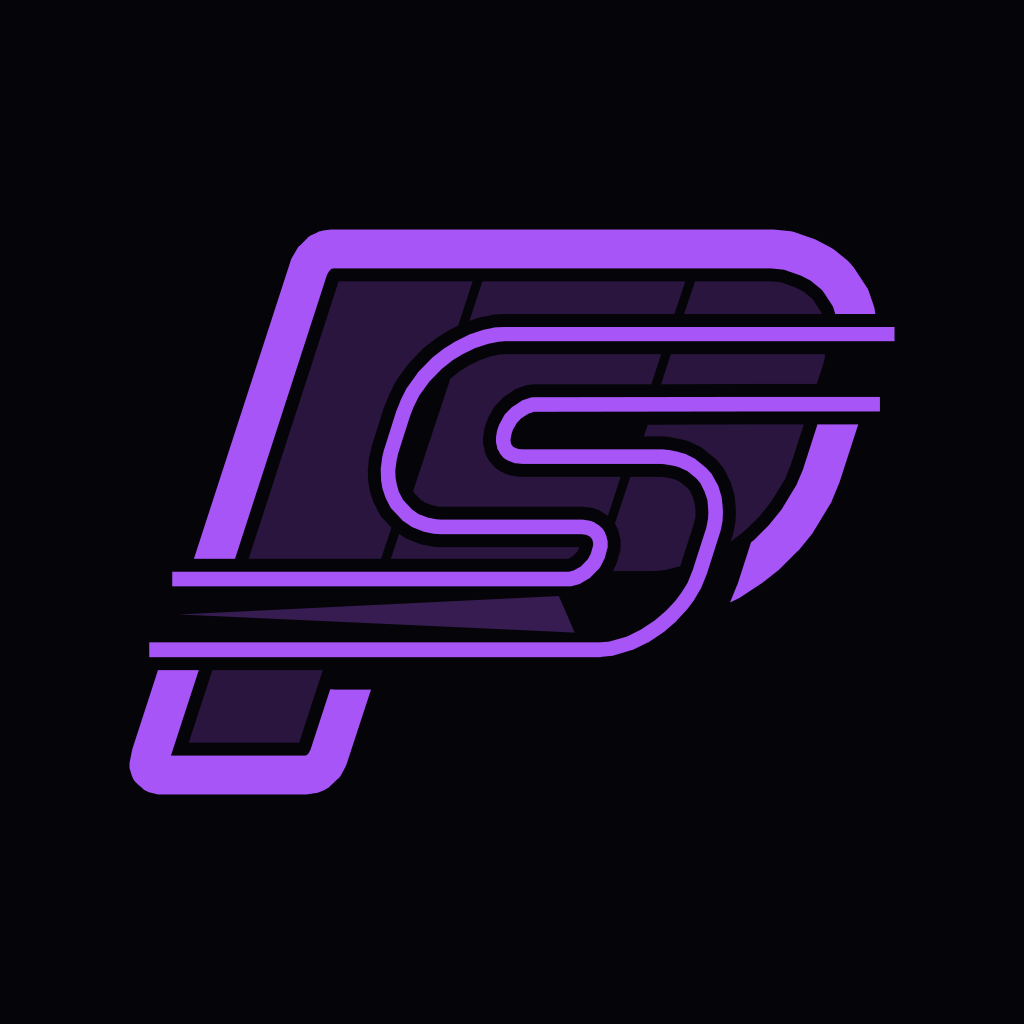
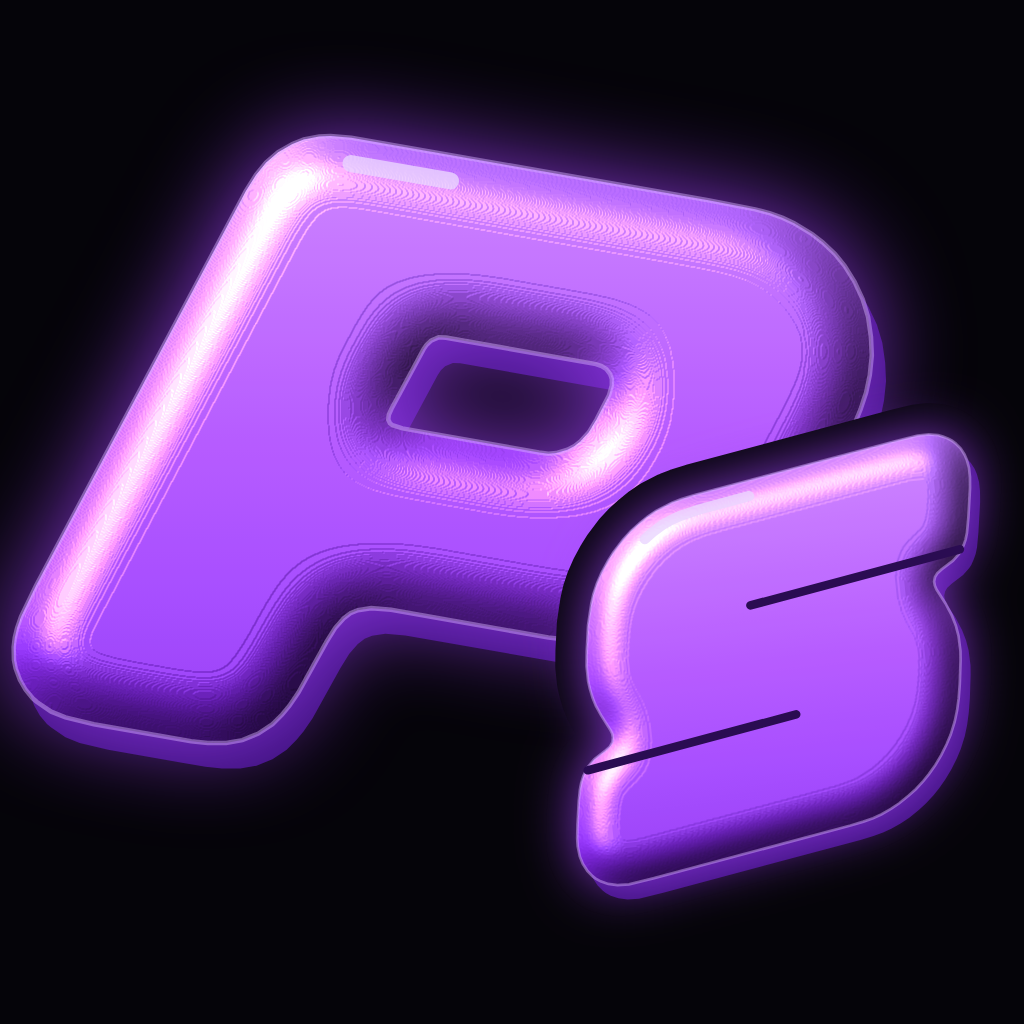
Título chicle PURSEC en páginas interiores y emblema chicle en infografías y kit de marca
Claude-Session: https://claude.ai/code/session_01WNETbiAF9xbLcpPEm8HxFY

diff --git a/packages/infographics/src/emblem.js b/packages/infographics/src/emblem.js
@@ -1,7 +1,7 @@
-// Emblema PS de PURSEC (versión definitiva, 3 oct 2026). Generado; no editar a mano.
+// Emblema PS de PURSEC, estilo chicle (5 oct 2026; sustituye al de estilo carreras del 3 oct). Generado; no editar a mano.
 // Geometría plana (sin máscaras ni ids), apta para incrustar en cualquier SVG.
-export const EMBLEM_VIEWBOX = "-3.7 -13.2 236.3 236.3";
-export const EMBLEM_INNER = `<path d="M73.7,105.9 L73.4,105.3 L71.9,102.4 L71.7,102.0 L71.5,101.5 L70.7,99.1 L70.5,98.2 L70.1,95.8 L70.0,95.3 L70.0,94.8 L69.9,92.0 L70.0,91.2 L70.3,88.0 L70.5,87.3 L71.1,84.8 L71.2,84.3 L74.9,72.6 L75.1,72.2 L76.3,69.2 L76.5,68.7 L78.3,65.1 L78.5,64.7 L78.8,64.2 L82.1,59.6 L82.4,59.3 L82.7,58.9 L86.8,54.6 L87.4,54.1 L91.0,51.3 L91.6,50.9 L94.8,48.9 L95.3,48.6 L97.8,47.4 L102.3,33.7 L60.9,33.7 L33.1,119.4 L74.0,119.4 L77.2,109.8 L74.4,106.8 L74.0,106.3 L73.7,105.9ZM56.0,153.8 L21.9,153.8 L14.6,176.2 L48.7,176.2 L56.0,153.8Z" fill="#A855F7" fill-opacity="0.22" fill-rule="evenodd"/><path d="M104.5,44.8 L105.3,44.7 L108.6,44.0 L109.5,43.9 L111.8,43.8 L112.1,43.8 L164.6,43.8 L168.0,33.7 L105.3,33.7 L101.3,45.9 L104.5,44.8ZM114.3,93.7 L113.8,93.6 L112.1,93.0 L111.6,92.7 L111.1,92.5 L110.4,92.1 L109.8,91.7 L109.3,91.3 L108.8,90.8 L107.9,89.7 L107.4,89.2 L107.0,88.5 L106.5,87.6 L106.3,87.1 L106.1,86.6 L106.0,86.0 L105.7,84.6 L105.5,84.0 L105.5,83.3 L105.5,82.3 L105.5,81.8 L105.6,81.3 L105.9,79.4 L106.0,78.8 L106.2,78.3 L106.8,76.6 L107.0,76.1 L107.2,75.6 L108.6,73.1 L108.9,72.6 L109.2,72.2 L109.6,71.8 L111.4,69.9 L111.9,69.4 L112.5,69.0 L115.1,67.3 L115.5,67.0 L116.0,66.8 L116.5,66.6 L118.9,65.8 L119.6,65.7 L120.2,65.6 L120.9,65.5 L157.5,65.5 L160.5,56.2 L112.3,56.2 L110.6,56.3 L108.1,56.8 L104.6,58.0 L101.1,59.7 L98.5,61.3 L95.5,63.7 L95.4,63.8 L83.9,98.5 L84.1,98.9 L86.2,101.1 L87.5,102.0 L89.6,102.8 L91.7,103.3 L92.7,103.3 L136.0,103.3 L136.8,103.4 L138.7,103.6 L139.2,103.7 L139.7,103.8 L140.2,104.0 L141.3,104.4 L141.8,104.7 L142.4,105.0 L143.4,105.7 L144.0,106.1 L144.1,106.1 L148.0,94.1 L117.9,94.1 L117.3,94.1 L115.3,93.9 L114.8,93.8 L114.3,93.7ZM135.1,116.3 L135.2,115.8 L92.5,115.8 L92.1,115.8 L90.4,115.7 L89.6,115.6 L86.6,115.0 L86.1,114.9 L85.7,114.7 L82.4,113.4 L81.9,113.2 L81.4,113.0 L81.0,112.7 L79.6,111.7 L77.0,119.4 L131.6,119.4 L132.0,119.3 L133.2,118.6 L134.7,117.1 L135.1,116.3Z" fill="#A855F7" fill-opacity="0.22" fill-rule="evenodd"/><path d="M197.5,34.0 L194.2,33.7 L171.0,33.7 L167.6,43.8 L210.1,43.8 L209.9,43.2 L207.4,39.3 L207.2,39.1 L204.5,36.9 L202.0,35.6 L197.5,34.0ZM188.7,65.4 L188.7,65.4 L208.6,65.4 L210.1,60.8 L210.9,58.1 L211.2,56.2 L163.5,56.2 L160.5,65.5 L188.7,65.4ZM200.5,90.5 L204.6,77.9 L188.7,77.9 L156.4,78.0 L155.2,81.6 L160.8,81.6 L161.4,81.6 L163.2,81.8 L163.7,81.9 L166.7,82.5 L167.2,82.6 L168.7,83.0 L169.3,83.2 L169.8,83.5 L172.6,84.8 L173.2,85.2 L173.7,85.6 L176.9,88.2 L177.3,88.5 L177.7,88.9 L179.2,90.7 L179.6,91.2 L180.0,91.8 L181.5,94.8 L181.8,95.3 L182.0,95.8 L182.9,98.8 L183.1,99.4 L183.2,100.0 L183.5,102.6 L183.5,102.8 L183.6,104.5 L183.6,105.3 L183.5,107.6 L183.4,108.5 L182.8,111.5 L182.6,112.2 L182.0,114.1 L182.6,113.7 L186.5,110.6 L190.9,106.3 L194.4,101.9 L198.8,94.8 L200.5,90.5ZM171.1,105.0 L171.1,103.9 L170.8,102.0 L170.2,100.1 L169.3,98.3 L168.6,97.5 L166.4,95.7 L164.8,94.9 L164.1,94.7 L161.6,94.2 L160.5,94.1 L151.0,94.1 L146.2,108.6 L146.3,108.6 L146.6,109.2 L147.1,110.2 L147.3,110.8 L147.4,111.3 L147.8,112.7 L147.9,113.2 L148.0,113.7 L148.0,114.3 L148.0,115.6 L148.0,116.1 L147.9,116.7 L147.8,117.3 L146.9,120.3 L146.7,120.9 L146.5,121.4 L145.6,123.2 L158.3,123.2 L161.5,122.9 L166.4,121.7 L166.5,121.4 L170.6,108.7 L171.1,106.5 L171.1,105.0Z" fill="#A855F7" fill-opacity="0.22" fill-rule="evenodd"/><path d="M131.4,136.6 L128.9,130.9 L11.5,136.6 L133.8,142.2 L131.4,136.6Z" fill="#A855F7" fill-opacity="0.3"/><path d="M218.8,28.0 L218.4,27.6 L218.0,27.2 L213.8,23.8 L213.3,23.5 L212.8,23.2 L208.8,21.1 L208.4,20.9 L208.0,20.7 L201.7,18.5 L201.0,18.3 L200.3,18.2 L195.3,17.7 L194.7,17.7 L59.2,17.7 L58.5,17.7 L56.1,18.0 L55.4,18.2 L54.8,18.3 L54.3,18.6 L52.8,19.3 L52.3,19.5 L51.9,19.8 L51.4,20.1 L51.1,20.5 L49.0,22.6 L48.6,22.9 L48.3,23.3 L48.0,23.8 L46.6,26.2 L46.3,26.7 L46.1,27.3 L16.2,119.4 L28.9,119.4 L57.3,31.7 L58.0,30.5 L58.7,29.8 L59.6,29.7 L194.4,29.7 L198.4,30.1 L203.6,31.9 L206.7,33.5 L210.0,36.2 L210.6,36.9 L213.6,41.5 L214.3,43.8 L226.7,43.8 L226.4,42.0 L226.2,41.3 L224.7,36.9 L224.5,36.4 L224.3,35.9 L224.0,35.5 L220.4,30.0 L220.0,29.4 L218.8,28.0ZM191.8,126.8 L192.2,126.5 L196.9,122.8 L197.4,122.3 L202.5,117.2 L203.0,116.8 L207.3,111.5 L207.7,110.8 L212.8,102.4 L213.1,102.0 L213.2,101.6 L215.4,96.3 L215.6,95.8 L221.4,77.9 L208.8,77.9 L204.3,91.9 L202.3,96.6 L197.7,104.2 L193.8,109.0 L189.2,113.6 L188.3,114.3 L184.1,127.3 L183.7,128.2 L182.0,132.4 L181.8,132.9 L184.7,131.5 L185.3,131.1 L191.8,126.8ZM-3.6,182.0 L-3.7,182.6 L-3.7,183.2 L-3.7,183.8 L-3.6,184.4 L-3.4,185.0 L-3.0,186.3 L-2.8,186.8 L-2.6,187.3 L-2.3,187.8 L-2.0,188.2 L-1.6,188.6 L-1.2,189.0 L0.3,190.3 L0.7,190.7 L1.2,191.0 L1.7,191.2 L2.2,191.5 L2.7,191.6 L4.3,192.0 L5.1,192.2 L5.8,192.2 L50.7,192.2 L51.1,192.2 L51.6,192.1 L53.6,191.8 L54.3,191.7 L54.9,191.5 L56.4,190.9 L56.9,190.6 L57.4,190.3 L57.9,190.0 L58.3,189.6 L60.5,187.5 L61.0,187.1 L61.4,186.6 L61.7,186.1 L63.0,183.7 L63.2,183.2 L63.4,182.7 L70.9,159.8 L59.6,159.8 L58.4,159.7 L58.3,159.7 L52.2,178.4 L51.6,179.5 L51.0,180.1 L50.3,180.2 L9.1,180.2 L17.7,153.8 L5.1,153.8 L-2.7,177.8 L-2.9,178.5 L-3.6,182.0Z" fill="#A855F7" fill-rule="evenodd"/><path d="M112.0,47.8 L109.7,47.9 L109.3,47.9 L106.0,48.6 L105.8,48.6 L101.6,50.0 L101.3,50.1 L97.1,52.2 L96.9,52.3 L93.7,54.3 L93.5,54.4 L89.9,57.2 L89.7,57.4 L85.5,61.7 L85.4,61.8 L85.3,62.0 L82.0,66.6 L81.9,66.7 L81.8,66.9 L80.0,70.5 L80.0,70.6 L78.8,73.6 L78.7,73.8 L75.0,85.5 L74.9,85.7 L74.3,88.3 L74.3,88.5 L73.9,91.6 L73.9,91.9 L74.0,94.7 L74.0,94.9 L74.0,95.1 L74.4,97.5 L74.5,97.9 L75.3,100.3 L75.4,100.4 L75.4,100.6 L76.9,103.5 L77.0,103.7 L77.2,103.9 L77.3,104.0 L80.5,107.4 L80.6,107.6 L80.8,107.7 L83.3,109.4 L83.4,109.5 L83.6,109.6 L83.8,109.7 L87.1,111.0 L87.3,111.0 L87.4,111.1 L90.4,111.7 L90.7,111.7 L92.3,111.8 L92.5,111.8 L135.9,111.8 L137.4,112.0 L138.0,112.3 L138.6,112.6 L139.0,113.1 L139.3,113.6 L139.5,114.5 L139.5,115.3 L138.8,117.8 L137.9,119.5 L135.7,121.8 L133.5,123.0 L132.1,123.4 L9.5,123.4 L9.5,127.9 L132.4,127.9 L132.6,127.9 L132.8,127.9 L133.0,127.8 L135.0,127.3 L135.2,127.2 L135.3,127.2 L135.5,127.1 L138.2,125.5 L138.4,125.4 L138.5,125.3 L138.7,125.1 L141.4,122.4 L141.5,122.2 L141.7,122.0 L141.8,121.8 L142.9,119.6 L143.0,119.4 L143.1,119.2 L143.9,116.2 L144.0,116.0 L144.0,115.8 L144.0,115.6 L144.0,114.3 L144.0,114.1 L144.0,113.9 L143.9,113.7 L143.6,112.3 L143.5,112.1 L143.4,111.9 L143.0,110.9 L142.8,110.7 L142.7,110.5 L142.6,110.3 L141.7,109.4 L141.5,109.2 L141.2,109.0 L140.2,108.4 L140.0,108.2 L139.8,108.1 L138.7,107.7 L138.6,107.7 L138.4,107.6 L138.2,107.6 L136.3,107.3 L136.0,107.3 L92.6,107.3 L91.1,107.2 L88.5,106.7 L85.6,105.6 L83.6,104.2 L80.8,101.2 L79.5,98.7 L78.9,96.6 L78.5,94.5 L78.4,92.0 L78.8,89.1 L79.3,86.8 L83.0,75.2 L84.1,72.4 L85.8,69.0 L88.9,64.7 L92.8,60.7 L96.2,58.0 L99.2,56.2 L103.1,54.3 L107.1,53.0 L110.1,52.4 L112.2,52.2 L232.6,52.2 L232.6,47.8 L112.1,47.8 L112.0,47.8ZM142.0,149.7 L145.0,149.4 L145.2,149.4 L145.4,149.4 L151.4,147.6 L151.6,147.6 L151.8,147.5 L156.3,145.3 L156.6,145.2 L161.2,142.1 L161.4,142.0 L161.5,141.9 L165.3,138.6 L165.4,138.4 L168.2,135.4 L168.4,135.2 L170.6,132.3 L170.7,132.1 L172.6,128.9 L172.8,128.6 L174.5,124.4 L174.6,124.2 L178.8,111.0 L178.9,110.7 L179.5,107.7 L179.5,107.4 L179.6,105.1 L179.6,104.8 L179.5,103.1 L179.5,103.0 L179.2,100.4 L179.2,100.2 L179.1,100.0 L178.2,97.0 L178.1,96.8 L178.0,96.6 L176.4,93.7 L176.3,93.5 L176.2,93.3 L174.7,91.6 L174.5,91.4 L174.4,91.3 L171.2,88.7 L171.0,88.5 L170.8,88.4 L168.0,87.0 L167.8,87.0 L167.6,86.9 L166.1,86.5 L166.0,86.4 L163.0,85.8 L162.8,85.8 L161.0,85.6 L160.8,85.6 L118.0,85.6 L116.4,85.5 L115.2,85.0 L114.9,84.9 L114.4,84.3 L114.2,83.9 L114.0,83.1 L114.0,82.5 L114.3,80.9 L114.7,79.6 L115.9,77.5 L117.3,76.0 L119.5,74.6 L121.2,74.0 L188.7,73.9 L228.1,73.9 L228.1,69.4 L188.7,69.4 L188.7,69.4 L120.9,69.5 L120.6,69.5 L120.4,69.6 L120.2,69.6 L117.8,70.4 L117.6,70.5 L117.4,70.6 L117.3,70.7 L114.7,72.4 L114.5,72.5 L114.3,72.7 L112.5,74.5 L112.4,74.7 L112.2,74.8 L112.1,75.0 L110.7,77.6 L110.6,77.8 L110.5,77.9 L109.9,79.6 L109.9,79.8 L109.8,80.0 L109.5,81.9 L109.5,82.1 L109.5,82.3 L109.5,83.3 L109.5,83.5 L109.6,83.8 L109.9,85.2 L109.9,85.4 L110.0,85.6 L110.1,85.7 L110.6,86.6 L110.7,86.9 L110.9,87.1 L111.8,88.2 L112.0,88.3 L112.2,88.5 L112.4,88.6 L113.1,89.0 L113.3,89.1 L113.5,89.2 L115.1,89.8 L115.3,89.9 L115.5,89.9 L115.7,89.9 L117.7,90.1 L117.9,90.1 L160.7,90.1 L162.2,90.3 L165.0,90.8 L166.2,91.2 L168.6,92.3 L171.4,94.6 L172.6,96.0 L173.9,98.6 L174.8,101.2 L175.0,103.5 L175.1,105.0 L175.0,107.0 L174.5,109.7 L170.3,122.8 L168.7,126.8 L166.9,129.7 L164.9,132.4 L162.2,135.3 L158.6,138.4 L154.2,141.3 L150.0,143.4 L144.4,145.0 L141.7,145.2 L2.4,145.2 L2.4,149.8 L141.8,149.8 L142.0,149.7Z" fill="#A855F7"/>`;
+export const EMBLEM_VIEWBOX = "-58 -79 380 380";
+export const EMBLEM_INNER = `<g><path d="M252.4 23.0 L249.0 17.5 L245.5 13.2 L241.2 9.2 L237.5 6.3 L231.2 2.5 L227.2 0.6 L222.8 -1.0 L217.5 -2.4 L201.0 -5.6 L75.5 -27.6 L68.2 -28.2 L64.2 -28.0 L58.8 -27.0 L54.8 -25.4 L49.8 -22.5 L45.5 -18.8 L42.0 -14.5 L38.4 -8.8 L-35.4 130.0 L-40.6 140.8 L-42.0 144.8 L-42.8 148.2 L-43.2 151.5 L-43.1 156.0 L-42.5 159.0 L-41.0 163.0 L-39.0 166.5 L-36.5 169.5 L-35.0 170.8 L-30.0 174.2 L-25.0 176.2 L-15.0 178.6 L19.2 184.6 L25.0 185.2 L31.5 185.2 L37.2 184.2 L42.8 181.9 L47.8 178.6 L51.2 175.2 L53.7 172.2 L56.9 167.5 L66.7 149.8 L69.8 144.8 L72.8 141.4 L75.2 139.6 L77.8 138.5 L82.5 137.8 L89.5 138.4 L144.8 148.1 L156.8 149.5 L165.0 149.5 L171.8 148.8 L177.0 147.9 L182.8 146.4 L187.8 144.8 L196.0 141.4 L205.0 136.6 L213.2 130.9 L221.0 124.2 L226.1 118.8 L230.8 112.8 L235.9 104.8 L244.4 89.0 L251.7 74.8 L254.5 68.0 L256.5 62.0 L257.8 55.8 L258.5 49.0 L258.2 42.5 L257.2 35.5 L255.3 29.2Z M88.5 71.5 L88.7 69.8 L89.6 67.8 L100.9 46.8 L102.0 45.2 L103.5 43.8 L106.2 42.6 L108.8 42.7 L161.5 52.0 L163.5 52.7 L165.2 53.8 L166.5 55.5 L167.1 57.2 L167.1 59.5 L166.1 63.0 L161.7 71.5 L159.0 76.0 L156.0 79.2 L154.0 80.8 L151.5 82.1 L147.5 83.3 L144.8 83.5 L141.5 83.1 L93.5 74.6 L90.0 73.5 L89.1 72.8Z" transform="translate(5 9)" fill="#3A0F78" fill-rule="evenodd"/><path d="M252.4 23.0 L249.0 17.5 L245.5 13.2 L241.2 9.2 L237.5 6.3 L231.2 2.5 L227.2 0.6 L222.8 -1.0 L217.5 -2.4 L201.0 -5.6 L75.5 -27.6 L68.2 -28.2 L64.2 -28.0 L58.8 -27.0 L54.8 -25.4 L49.8 -22.5 L45.5 -18.8 L42.0 -14.5 L38.4 -8.8 L-35.4 130.0 L-40.6 140.8 L-42.0 144.8 L-42.8 148.2 L-43.2 151.5 L-43.1 156.0 L-42.5 159.0 L-41.0 163.0 L-39.0 166.5 L-36.5 169.5 L-35.0 170.8 L-30.0 174.2 L-25.0 176.2 L-15.0 178.6 L19.2 184.6 L25.0 185.2 L31.5 185.2 L37.2 184.2 L42.8 181.9 L47.8 178.6 L51.2 175.2 L53.7 172.2 L56.9 167.5 L66.7 149.8 L69.8 144.8 L72.8 141.4 L75.2 139.6 L77.8 138.5 L82.5 137.8 L89.5 138.4 L144.8 148.1 L156.8 149.5 L165.0 149.5 L171.8 148.8 L177.0 147.9 L182.8 146.4 L187.8 144.8 L196.0 141.4 L205.0 136.6 L213.2 130.9 L221.0 124.2 L226.1 118.8 L230.8 112.8 L235.9 104.8 L244.4 89.0 L251.7 74.8 L254.5 68.0 L256.5 62.0 L257.8 55.8 L258.5 49.0 L258.2 42.5 L257.2 35.5 L255.3 29.2Z M88.5 71.5 L88.7 69.8 L89.6 67.8 L100.9 46.8 L102.0 45.2 L103.5 43.8 L106.2 42.6 L108.8 42.7 L161.5 52.0 L163.5 52.7 L165.2 53.8 L166.5 55.5 L167.1 57.2 L167.1 59.5 L166.1 63.0 L161.7 71.5 L159.0 76.0 L156.0 79.2 L154.0 80.8 L151.5 82.1 L147.5 83.3 L144.8 83.5 L141.5 83.1 L93.5 74.6 L90.0 73.5 L89.1 72.8Z" fill="#A855F7" fill-rule="evenodd"/><path d="M110.4 -12.4 L75.4 -18.5" fill="none" stroke="#E4CCFF" stroke-opacity=".75" stroke-width="7" stroke-linecap="round"/></g><g transform="translate(224 156) rotate(-6) scale(0.6) translate(-723.625 -113.875)"><path d="M843.2 -0.8 L841.0 -2.9 L839.0 -4.3 L836.0 -5.9 L833.2 -7.0 L827.8 -8.0 L821.2 -8.0 L808.8 -6.3 L687.5 12.9 L679.2 14.6 L674.0 16.0 L664.2 19.8 L659.0 22.6 L653.8 26.0 L648.2 30.1 L643.2 34.5 L636.7 41.5 L633.3 45.8 L628.7 52.5 L625.3 58.5 L622.6 64.5 L620.8 69.8 L617.6 82.2 L615.2 97.5 L614.2 106.2 L614.2 115.0 L614.7 119.2 L615.8 125.0 L617.2 129.8 L619.6 135.5 L624.1 144.5 L625.0 147.0 L625.2 149.2 L624.6 152.0 L622.8 154.4 L620.2 156.3 L613.0 160.8 L608.6 165.0 L605.6 169.8 L603.9 173.8 L602.8 177.5 L601.4 184.2 L599.2 198.0 L598.2 205.8 L598.0 210.5 L598.6 216.5 L599.9 221.0 L602.2 225.5 L604.8 228.8 L606.5 230.4 L609.2 232.3 L613.5 234.3 L618.8 235.6 L625.5 235.8 L640.0 233.8 L758.2 215.1 L766.0 213.6 L771.8 212.2 L776.8 210.5 L782.8 207.9 L788.0 205.1 L794.0 201.2 L798.5 197.9 L803.5 193.5 L807.2 189.8 L811.4 185.0 L815.5 179.5 L819.3 173.5 L822.2 168.2 L825.3 161.0 L827.4 154.5 L829.1 147.5 L830.6 139.2 L832.5 125.5 L833.0 120.0 L832.8 111.2 L831.9 105.2 L830.2 99.0 L827.2 91.5 L822.9 83.0 L822.1 80.5 L821.9 78.0 L822.7 75.5 L824.2 73.5 L827.0 71.4 L834.2 67.0 L838.1 63.5 L839.5 61.8 L841.4 58.5 L842.8 55.5 L844.0 51.8 L845.8 42.8 L848.6 25.5 L849.2 19.2 L849.2 14.0 L848.4 9.0 L847.4 5.8 L845.6 2.2Z" fill="#050409" stroke="#050409" stroke-width="36.66666666666667" stroke-linejoin="round"/><path d="M843.2 -0.8 L841.0 -2.9 L839.0 -4.3 L836.0 -5.9 L833.2 -7.0 L827.8 -8.0 L821.2 -8.0 L808.8 -6.3 L687.5 12.9 L679.2 14.6 L674.0 16.0 L664.2 19.8 L659.0 22.6 L653.8 26.0 L648.2 30.1 L643.2 34.5 L636.7 41.5 L633.3 45.8 L628.7 52.5 L625.3 58.5 L622.6 64.5 L620.8 69.8 L617.6 82.2 L615.2 97.5 L614.2 106.2 L614.2 115.0 L614.7 119.2 L615.8 125.0 L617.2 129.8 L619.6 135.5 L624.1 144.5 L625.0 147.0 L625.2 149.2 L624.6 152.0 L622.8 154.4 L620.2 156.3 L613.0 160.8 L608.6 165.0 L605.6 169.8 L603.9 173.8 L602.8 177.5 L601.4 184.2 L599.2 198.0 L598.2 205.8 L598.0 210.5 L598.6 216.5 L599.9 221.0 L602.2 225.5 L604.8 228.8 L606.5 230.4 L609.2 232.3 L613.5 234.3 L618.8 235.6 L625.5 235.8 L640.0 233.8 L758.2 215.1 L766.0 213.6 L771.8 212.2 L776.8 210.5 L782.8 207.9 L788.0 205.1 L794.0 201.2 L798.5 197.9 L803.5 193.5 L807.2 189.8 L811.4 185.0 L815.5 179.5 L819.3 173.5 L822.2 168.2 L825.3 161.0 L827.4 154.5 L829.1 147.5 L830.6 139.2 L832.5 125.5 L833.0 120.0 L832.8 111.2 L831.9 105.2 L830.2 99.0 L827.2 91.5 L822.9 83.0 L822.1 80.5 L821.9 78.0 L822.7 75.5 L824.2 73.5 L827.0 71.4 L834.2 67.0 L838.1 63.5 L839.5 61.8 L841.4 58.5 L842.8 55.5 L844.0 51.8 L845.8 42.8 L848.6 25.5 L849.2 19.2 L849.2 14.0 L848.4 9.0 L847.4 5.8 L845.6 2.2Z" transform="translate(5 9)" fill="#3A0F78" fill-rule="evenodd"/><path d="M843.2 -0.8 L841.0 -2.9 L839.0 -4.3 L836.0 -5.9 L833.2 -7.0 L827.8 -8.0 L821.2 -8.0 L808.8 -6.3 L687.5 12.9 L679.2 14.6 L674.0 16.0 L664.2 19.8 L659.0 22.6 L653.8 26.0 L648.2 30.1 L643.2 34.5 L636.7 41.5 L633.3 45.8 L628.7 52.5 L625.3 58.5 L622.6 64.5 L620.8 69.8 L617.6 82.2 L615.2 97.5 L614.2 106.2 L614.2 115.0 L614.7 119.2 L615.8 125.0 L617.2 129.8 L619.6 135.5 L624.1 144.5 L625.0 147.0 L625.2 149.2 L624.6 152.0 L622.8 154.4 L620.2 156.3 L613.0 160.8 L608.6 165.0 L605.6 169.8 L603.9 173.8 L602.8 177.5 L601.4 184.2 L599.2 198.0 L598.2 205.8 L598.0 210.5 L598.6 216.5 L599.9 221.0 L602.2 225.5 L604.8 228.8 L606.5 230.4 L609.2 232.3 L613.5 234.3 L618.8 235.6 L625.5 235.8 L640.0 233.8 L758.2 215.1 L766.0 213.6 L771.8 212.2 L776.8 210.5 L782.8 207.9 L788.0 205.1 L794.0 201.2 L798.5 197.9 L803.5 193.5 L807.2 189.8 L811.4 185.0 L815.5 179.5 L819.3 173.5 L822.2 168.2 L825.3 161.0 L827.4 154.5 L829.1 147.5 L830.6 139.2 L832.5 125.5 L833.0 120.0 L832.8 111.2 L831.9 105.2 L830.2 99.0 L827.2 91.5 L822.9 83.0 L822.1 80.5 L821.9 78.0 L822.7 75.5 L824.2 73.5 L827.0 71.4 L834.2 67.0 L838.1 63.5 L839.5 61.8 L841.4 58.5 L842.8 55.5 L844.0 51.8 L845.8 42.8 L848.6 25.5 L849.2 19.2 L849.2 14.0 L848.4 9.0 L847.4 5.8 L845.6 2.2Z" fill="#A855F7" fill-rule="evenodd"/><path d="M713.4 80.7 L838.9 60.8" fill="none" stroke="#2A0C52" stroke-width="8" stroke-linecap="round"/><path d="M733.4 147.0 L608.5 166.8" fill="none" stroke="#2A0C52" stroke-width="8" stroke-linecap="round"/><path d="M719.4 16.9 L688.6 21.8 L678.1 24.2 L672.6 26.0 L666.9 28.5 L661.1 31.9 L655.9 35.6" fill="none" stroke="#E4CCFF" stroke-opacity=".75" stroke-width="7" stroke-linecap="round"/></g>`;
 export function emblem(x, y, size) {
   return `<svg x="${x}" y="${y}" width="${size}" height="${size}" viewBox="${EMBLEM_VIEWBOX}">${EMBLEM_INNER}</svg>`;
 }

diff --git a/public/css/pursec.css b/public/css/pursec.css
@@ -154,21 +154,35 @@ a:hover { color: #E4D3FF; }
   filter: blur(10px);
 }
 
-/* ---------- logo en hueco + barra de sectores (páginas interiores) ---------- */
-.mark { display: flex; flex-direction: column; gap: 14px; width: min(460px, 78vw); margin-bottom: 20px; }
-.mark.center { align-items: center; margin-left: auto; margin-right: auto; }
-.mark img { width: 100%; filter: drop-shadow(0 0 3px rgba(168,85,247,.75)) drop-shadow(0 0 14px rgba(168,85,247,.35)); animation: mark-in 1.2s var(--ease) both; }
-.mark .bars { display: flex; gap: 6px; width: 62%; }
-.mark .sec { flex: 1; height: 6px; border-radius: 3px; background: rgba(211,198,242,.08); overflow: hidden; }
-.mark .sec i { display: block; height: 100%; border-radius: 2px; background: var(--green); transform-origin: left; transform: scaleX(0); animation: mark-fill .7s linear forwards; }
-.mark .sec:nth-child(1) i { animation-delay: .6s; }
-.mark .sec:nth-child(2) i { animation-delay: 1.3s; }
-.mark .sec:nth-child(3) i { animation: mark-fill .7s linear 2s forwards, mark-purple .01s linear 2.7s forwards; }
-@keyframes mark-in { from { opacity: 0; transform: translateY(10px); } to { opacity: 1; transform: none; } }
+/* ---------- título chicle PURSEC (mismo que la portada) + barra de sectores, en páginas interiores ---------- */
+.mark { width: min(760px, 90vw); margin-bottom: 28px; }
+.mark.center { margin-left: auto; margin-right: auto; }
+.gumtitle { position: relative; width: 100%; aspect-ratio: 1352 / 360; }
+.gumtitle .lt { position: absolute; display: block; will-change: transform;
+  animation: gt-in 1s cubic-bezier(.3, 1.45, .45, 1) calc(var(--i) * .07s) both, gum var(--dur) cubic-bezier(.45, 0, .55, 1) calc(var(--ph) + 1.2s) infinite; }
+.gumtitle .jelly { display: block; width: 100%; height: 100%; transform-origin: 50% 62%; will-change: transform; }
+.gumtitle img { width: 100%; height: 100%; max-width: none; user-select: none; -webkit-user-drag: none; }
+.gumtitle .lt:hover .jelly { animation: boing .8s cubic-bezier(.28, 1.4, .5, 1); }
+.gumtitle .sec { position: absolute; display: block; border-radius: 999px; background: rgba(211,198,242,.08); overflow: hidden; }
+.gumtitle .sec i { display: block; height: 100%; border-radius: 999px; background: var(--green); transform-origin: left; transform: scaleX(0); animation: mark-fill .7s linear forwards; }
+.gumtitle .s1 i { animation-delay: .7s; }
+.gumtitle .s2 i { animation-delay: 1.4s; }
+.gumtitle .s3 i { background: var(--purple); animation-delay: 2.1s; }
+.gumtitle .s3 { overflow: visible; }
+.gumtitle .s3 i { box-shadow: 0 0 12px rgba(168,85,247,.85); }
+@keyframes gt-in { from { opacity: 0; transform: translate3d(0, 12%, 0) scale(.86); } to { opacity: 1; transform: none; } }
+@keyframes gum {
+  0%, 100% { transform: translate3d(0, 0, 0) rotate(0deg) scale(1, 1); }
+  33% { transform: translate3d(0, -1.6%, 0) rotate(var(--r)) scale(1.015, .99); }
+  66% { transform: translate3d(0, 1.2%, 0) rotate(calc(var(--r) * -.6)) scale(.99, 1.015); }
+}
+@keyframes boing {
+  0% { transform: scale(1, 1); } 28% { transform: scale(1.1, .9); } 52% { transform: scale(.95, 1.06); }
+  74% { transform: scale(1.025, .98); } 100% { transform: scale(1, 1); }
+}
 @keyframes mark-fill { to { transform: scaleX(1); } }
-@keyframes mark-purple { to { background: var(--purple); box-shadow: 0 0 12px rgba(168,85,247,.9); } }
 @media (prefers-reduced-motion: reduce) {
-  .mark img, .mark .sec i { animation: none; transform: none; }
-  .mark .sec:nth-child(3) i { background: var(--purple); }
+  .gumtitle .lt, .gumtitle .lt:hover .jelly, .gumtitle .sec i { animation: none; }
+  .gumtitle .sec i { transform: none; }
 }
 @media (prefers-reduced-motion: reduce) { .top .brand img { transition: none; } }

diff --git a/public/muy-pronto.html b/public/muy-pronto.html
@@ -66,8 +66,7 @@
   <section class="wl">
     <div class="wrap">
       <div class="mark center">
-        <img src="/img/pursec-logo-hueco.svg" alt="PURSEC" width="1260" height="218">
-        <div class="bars" aria-hidden="true"><span class="sec"><i></i></span><span class="sec"><i></i></span><span class="sec"><i></i></span></div>
+        <div class="gumtitle" role="img" aria-label="PURSEC"><span class="lt" style="left:-2.311%;top:-5.069%;width:30.159%;height:89.861%;--ph:-0.3s;--dur:4.2s;--r:1.6deg;--i:0"><span class="jelly"><img src="/img/portada/gum-0.webp" alt="" width="897" height="712" decoding="async"></span></span><span class="lt" style="left:16.235%;top:5.903%;width:24.612%;height:89.027%;--ph:-1.9s;--dur:4.9s;--r:-1.4deg;--i:1"><span class="jelly"><img src="/img/portada/gum-1.webp" alt="" width="732" height="705" decoding="async"></span></span><span class="lt" style="left:29.013%;top:1.042%;width:27.903%;height:89.652%;--ph:-0.9s;--dur:3.9s;--r:1.9deg;--i:2"><span class="jelly"><img src="/img/portada/gum-2.webp" alt="" width="830" height="710" decoding="async"></span></span><span class="lt" style="left:45.118%;top:0.556%;width:26.424%;height:98.264%;--ph:-2.6s;--dur:5.2s;--r:-1.7deg;--i:3"><span class="jelly"><img src="/img/portada/gum-3.webp" alt="" width="786" height="778" decoding="async"></span></span><span class="lt" style="left:58.598%;top:-1.528%;width:28.236%;height:91.042%;--ph:-1.4s;--dur:4.4s;--r:1.5deg;--i:4"><span class="jelly"><img src="/img/portada/gum-4.webp" alt="" width="840" height="721" decoding="async"></span></span><span class="lt" style="left:75.000%;top:1.111%;width:24.186%;height:93.056%;--ph:-3.1s;--dur:4.7s;--r:-2deg;--i:5"><span class="jelly"><img src="/img/portada/gum-5.webp" alt="" width="719" height="737" decoding="async"></span></span><span class="sec s1" style="left:-1.124%;top:92.222%;width:32.766%;height:2.223%"><i></i></span><span class="sec s2" style="left:33.121%;top:92.222%;width:28.624%;height:2.223%"><i></i></span><span class="sec s3" style="left:63.225%;top:92.222%;width:31.805%;height:2.223%"><i></i></span></div>
       </div>
       <p class="label">Muy pronto</p>
       <h1 class="display d-l">El club de análisis técnico de motorsport.</h1>

diff --git a/public/planes.html b/public/planes.html
@@ -67,8 +67,7 @@
 <main class="wrap">
   <section class="intro">
     <div class="mark center">
-      <img src="/img/pursec-logo-hueco.svg" alt="PURSEC" width="1260" height="218">
-      <div class="bars" aria-hidden="true"><span class="sec"><i></i></span><span class="sec"><i></i></span><span class="sec"><i></i></span></div>
+      <div class="gumtitle" role="img" aria-label="PURSEC"><span class="lt" style="left:-2.311%;top:-5.069%;width:30.159%;height:89.861%;--ph:-0.3s;--dur:4.2s;--r:1.6deg;--i:0"><span class="jelly"><img src="/img/portada/gum-0.webp" alt="" width="897" height="712" decoding="async"></span></span><span class="lt" style="left:16.235%;top:5.903%;width:24.612%;height:89.027%;--ph:-1.9s;--dur:4.9s;--r:-1.4deg;--i:1"><span class="jelly"><img src="/img/portada/gum-1.webp" alt="" width="732" height="705" decoding="async"></span></span><span class="lt" style="left:29.013%;top:1.042%;width:27.903%;height:89.652%;--ph:-0.9s;--dur:3.9s;--r:1.9deg;--i:2"><span class="jelly"><img src="/img/portada/gum-2.webp" alt="" width="830" height="710" decoding="async"></span></span><span class="lt" style="left:45.118%;top:0.556%;width:26.424%;height:98.264%;--ph:-2.6s;--dur:5.2s;--r:-1.7deg;--i:3"><span class="jelly"><img src="/img/portada/gum-3.webp" alt="" width="786" height="778" decoding="async"></span></span><span class="lt" style="left:58.598%;top:-1.528%;width:28.236%;height:91.042%;--ph:-1.4s;--dur:4.4s;--r:1.5deg;--i:4"><span class="jelly"><img src="/img/portada/gum-4.webp" alt="" width="840" height="721" decoding="async"></span></span><span class="lt" style="left:75.000%;top:1.111%;width:24.186%;height:93.056%;--ph:-3.1s;--dur:4.7s;--r:-2deg;--i:5"><span class="jelly"><img src="/img/portada/gum-5.webp" alt="" width="719" height="737" decoding="async"></span></span><span class="sec s1" style="left:-1.124%;top:92.222%;width:32.766%;height:2.223%"><i></i></span><span class="sec s2" style="left:33.121%;top:92.222%;width:28.624%;height:2.223%"><i></i></span><span class="sec s3" style="left:63.225%;top:92.222%;width:31.805%;height:2.223%"><i></i></span></div>
     </div>
     <p class="label">Planes</p>
     <h1 class="display d-l">Ver la carrera.<br>Entenderla.</h1>

diff --git a/public/contacto.html b/public/contacto.html
@@ -46,8 +46,7 @@
   <div class="contact">
     <div class="stack">
       <div class="mark">
-        <img src="/img/pursec-logo-hueco.svg" alt="PURSEC" width="1260" height="218">
-        <div class="bars" aria-hidden="true"><span class="sec"><i></i></span><span class="sec"><i></i></span><span class="sec"><i></i></span></div>
+        <div class="gumtitle" role="img" aria-label="PURSEC"><span class="lt" style="left:-2.311%;top:-5.069%;width:30.159%;height:89.861%;--ph:-0.3s;--dur:4.2s;--r:1.6deg;--i:0"><span class="jelly"><img src="/img/portada/gum-0.webp" alt="" width="897" height="712" decoding="async"></span></span><span class="lt" style="left:16.235%;top:5.903%;width:24.612%;height:89.027%;--ph:-1.9s;--dur:4.9s;--r:-1.4deg;--i:1"><span class="jelly"><img src="/img/portada/gum-1.webp" alt="" width="732" height="705" decoding="async"></span></span><span class="lt" style="left:29.013%;top:1.042%;width:27.903%;height:89.652%;--ph:-0.9s;--dur:3.9s;--r:1.9deg;--i:2"><span class="jelly"><img src="/img/portada/gum-2.webp" alt="" width="830" height="710" decoding="async"></span></span><span class="lt" style="left:45.118%;top:0.556%;width:26.424%;height:98.264%;--ph:-2.6s;--dur:5.2s;--r:-1.7deg;--i:3"><span class="jelly"><img src="/img/portada/gum-3.webp" alt="" width="786" height="778" decoding="async"></span></span><span class="lt" style="left:58.598%;top:-1.528%;width:28.236%;height:91.042%;--ph:-1.4s;--dur:4.4s;--r:1.5deg;--i:4"><span class="jelly"><img src="/img/portada/gum-4.webp" alt="" width="840" height="721" decoding="async"></span></span><span class="lt" style="left:75.000%;top:1.111%;width:24.186%;height:93.056%;--ph:-3.1s;--dur:4.7s;--r:-2deg;--i:5"><span class="jelly"><img src="/img/portada/gum-5.webp" alt="" width="719" height="737" decoding="async"></span></span><span class="sec s1" style="left:-1.124%;top:92.222%;width:32.766%;height:2.223%"><i></i></span><span class="sec s2" style="left:33.121%;top:92.222%;width:28.624%;height:2.223%"><i></i></span><span class="sec s3" style="left:63.225%;top:92.222%;width:31.805%;height:2.223%"><i></i></span></div>
       </div>
       <p class="label">Contacto</p>
       <h1 class="display d-l">Radio al muro.</h1>

diff --git a/docs/marca/README.md b/docs/marca/README.md
@@ -1,12 +1,14 @@
-# Marca PURSEC — emblema PS (definitivo, 3 oct 2026)
+# Marca PURSEC — emblema PS estilo chicle (5 oct 2026)
 
-- `emblema-ps.svg` — emblema a color, fondo transparente (web, documentos).
+Sustituye al emblema de estilo carreras del 3 oct 2026. Misma P y S que el título chicle de la portada: la S, más pequeña, pegada sobre la panza de la P.
+
+- `emblema-ps.svg` — emblema a color (degradado lila), fondo transparente (web, documentos).
 - `emblema-ps-fondo-negro.svg` — con fondo negro #050409 (redes, iconos).
-- `emblema-ps-1-color.svg` / `emblema-ps-1-color-negro.svg` — sin paneles de fondo, un solo color (bordado, serigrafía, sellos).
-- `emblema-ps-perfil-1024.png` / `-512.png` — foto de perfil (Instagram, TikTok, X, YouTube, Discord).
-- `emblema-ps-transparente-1024.png` — PNG con transparencia.
+- `emblema-ps-1-color.svg` / `emblema-ps-1-color-negro.svg` — un solo color, con el corte entre P y S y las ranuras de la S en hueco (bordado, serigrafía, sellos).
+- `emblema-ps-perfil-1024.png` / `-512.png` — versión con volumen y brillo sobre negro: foto de perfil (Instagram, TikTok, X, YouTube, Discord).
+- `emblema-ps-transparente-1024.png` — versión con volumen y halo, PNG con transparencia.
 
-En la web: `public/img/ps-emblema.svg` (cabecera y pie), `public/favicon.svg`, `public/img/ps-emblema-32.png`, `public/apple-touch-icon.png`, `public/img/ps-emblema-512.png`.
+En la web: `public/img/ps-emblema.webp` (cabecera y pie, con volumen), `public/img/ps-emblema.svg` (versión plana), `public/favicon.svg`, `public/img/ps-emblema-32.png`, `public/apple-touch-icon.png`, `public/img/ps-emblema-512.png`.
 En las infografías: `packages/infographics/src/emblem.js` (pie de cada infografía).
 
-El logo largo (`public/img/pursec-logo-hueco.svg`) no cambia.
+El título largo: en la portada y en las páginas interiores se usa el lettering chicle (`public/img/portada/gum-0..5.webp`). `public/img/pursec-logo-hueco.svg` queda solo como archivo de marca.
